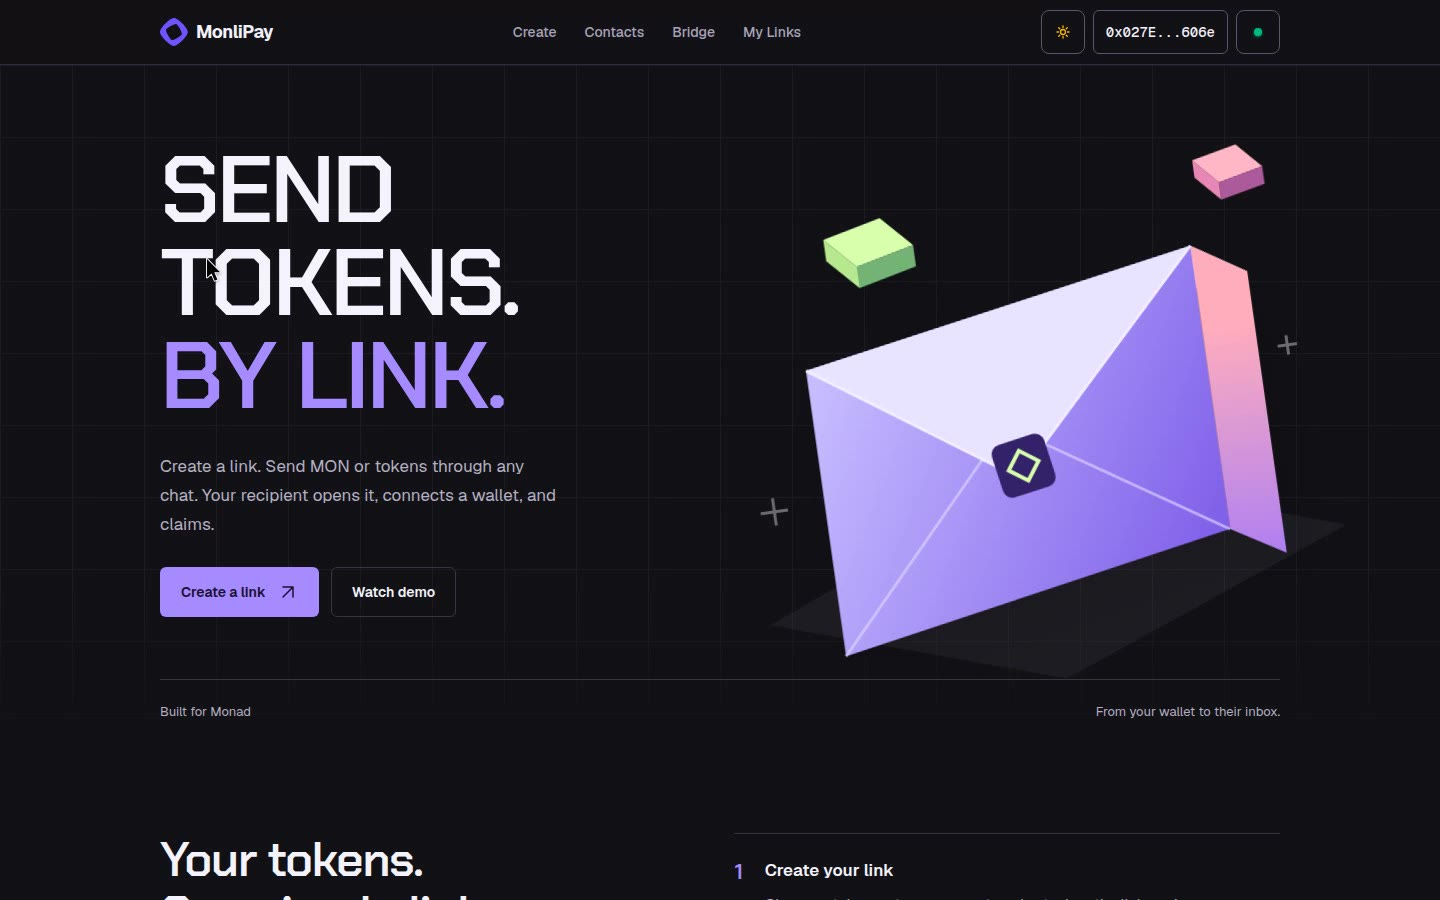
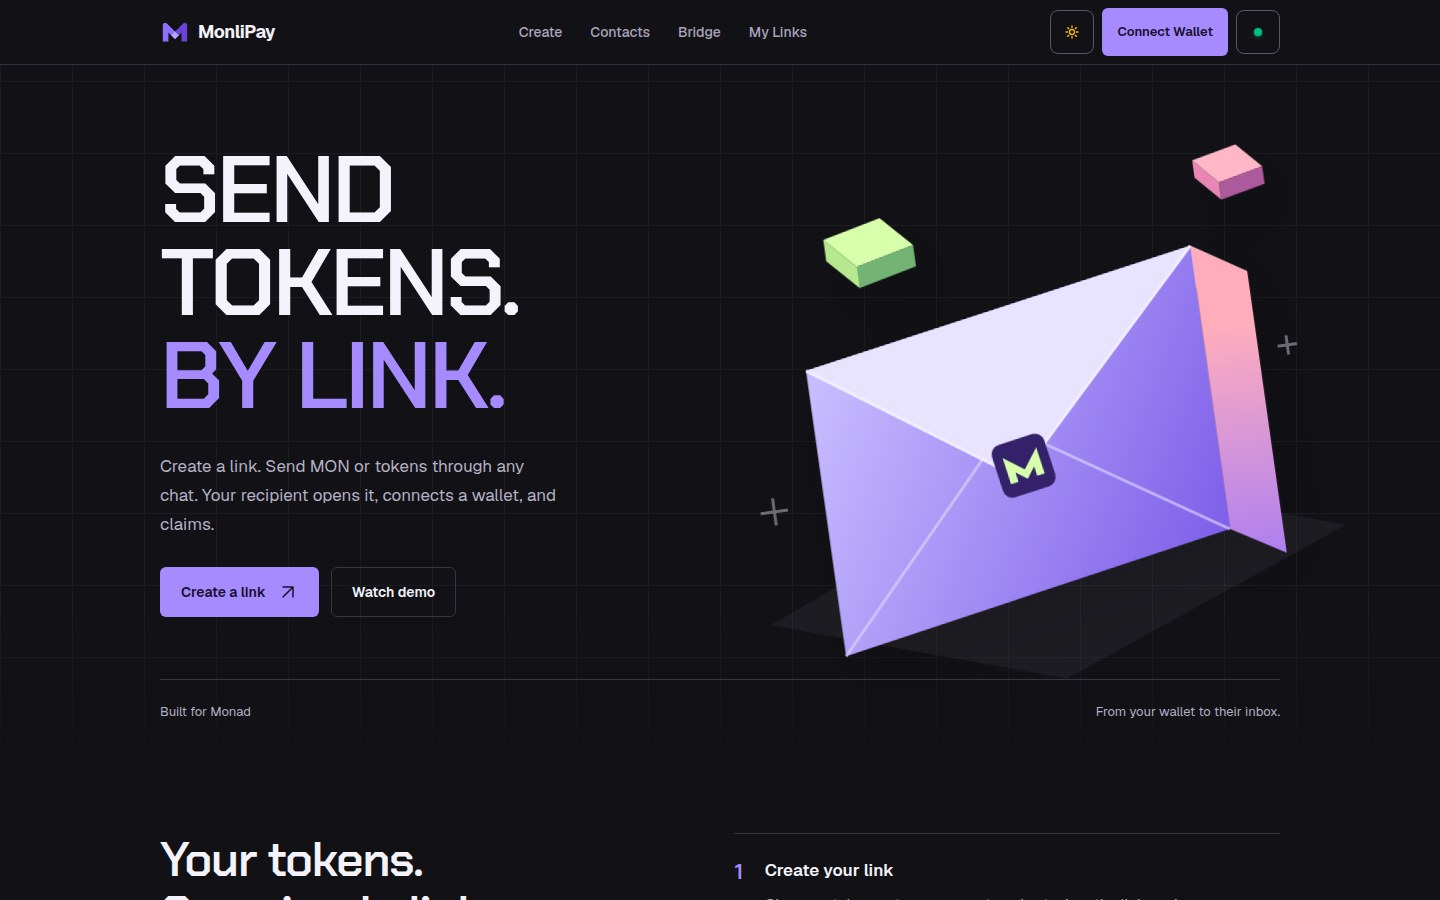
Add MonliPay identity and refine private access copy and spacing

diff --git a/web/src/components/DemoVideo.tsx b/web/src/components/DemoVideo.tsx
@@ -11,7 +11,7 @@ export function DemoVideo() {
         controls
         playsInline
         preload="none"
-        poster="/demo/monlipay-poster.jpg"
+        poster="/demo/monlipay-poster.jpg?v=monlipay-mark"
         width="1440"
         height="900"
         aria-label="MonliPay product demo with English captions"
@@ -26,13 +26,7 @@ export function DemoVideo() {
         Your browser does not support embedded video.{" "}
         <a href="/demo/monlipay-demo.mp4">Download the demo</a>.
       </video>
-      <div className="mp-demo-notes">
-        <p>
-          Payment and Lucky Link transactions were recorded on Monad testnet
-          with automated wallet confirmations. Demo USD has no monetary value.
-          The closing privacy walkthrough shows the interface; its funded
-          mainnet pilot was verified separately.
-        </p>
+      <div className="mp-demo-actions">
         <a className="mp-text-link" href="/demo/monlipay-demo.mp4" download>
           Download video
         </a>
@@ -41,8 +35,7 @@ export function DemoVideo() {
         <summary>Read the walkthrough</summary>
         <ol>
           <li>
-            Create a payment link: choose a token, amount, and expiry. The demo
-            uses a six-decimal test token.
+            Create a payment link: choose a token, amount, and expiry.
           </li>
           <li>
             Fund the link in your wallet, then copy it into a private chat.
@@ -61,14 +54,12 @@ export function DemoVideo() {
             share after it settles. Draw fees and network gas are paid in MON.
           </li>
           <li>
-            My Links brings both link types together. Expired, unallocated funds
+            Find your links in My Links. Expired, unallocated funds
             can be refunded with wallet confirmation.
           </li>
           <li>
-            Open encrypted saved links with a passkey. Optional Private Payment
-            uses AnomaPay on mainnet. Its WMON pilot passed deposit, private
-            transfer, claim and sender recovery. Deposits and withdrawals remain
-            public, and the proving service can see transfer details.
+            Open saved links with your passkey. To send a private payment,
+            choose Private when creating a link on Monad mainnet.
           </li>
         </ol>
       </details>

diff --git a/web/src/components/ClaimForm.tsx b/web/src/components/ClaimForm.tsx
@@ -143,7 +143,7 @@ export function ClaimForm({
             />
           </svg>
           <span>
-            <strong>Gasless claim</strong> — gas fee sponsored by MonliPay.
+            <strong>Gasless claim.</strong> Gas fee sponsored by MonliPay.
           </span>
         </div>
       )}
@@ -185,7 +185,7 @@ export function ClaimForm({
 
       <p className="mp-hint text-center">
         {isGasSponsorAvailable
-          ? "No MON needed — the sponsor covers the gas fee."
+          ? "No MON needed. The sponsor covers the gas fee."
           : "Claiming requires a small gas fee in MON for the transaction."}
       </p>
 
@@ -235,7 +235,7 @@ export function ClaimForm({
             <p className="mt-2 text-sm text-stone-600 dark:text-stone-400">
               You are about to claim these funds to a wallet that is not the one
               you are currently connected with. Please verify the address
-              carefully — funds sent to the wrong address cannot be recovered.
+              carefully. Funds sent to the wrong address cannot be recovered.
             </p>
             <div className="mt-4 rounded-lg border border-stone-200 bg-stone-50 p-3 dark:border-stone-700 dark:bg-stone-800">
               <div className="text-xs uppercase tracking-wide text-stone-500">

diff --git a/web/src/components/LinkCard.tsx b/web/src/components/LinkCard.tsx
@@ -43,7 +43,7 @@ export function LinkCard({
   const status: { label: string; color: string } = isClaimed
     ? { label: "Claimed", color: "bg-stone-100 text-stone-600 dark:bg-stone-800 dark:text-stone-400" }
     : isExpired
-      ? { label: "Expired — refundable", color: "bg-amber-100 text-amber-700 dark:bg-amber-950/40 dark:text-amber-300" }
+      ? { label: "Expired, refundable", color: "bg-amber-100 text-amber-700 dark:bg-amber-950/40 dark:text-amber-300" }
       : { label: "Active", color: "bg-green-100 text-green-700 dark:bg-green-950/40 dark:text-green-300" };
 
   const canShare = !isClaimed && shareableUrl;
@@ -89,7 +89,7 @@ export function LinkCard({
           </div>
           {autoRefundFailed && (
             <p className="mt-2 text-xs font-medium text-amber-700 dark:text-amber-300">
-              ⚠ Auto-refund skipped for this link — try a manual refund below.
+              Auto-refund skipped for this link. Try a manual refund below.
             </p>
           )}
 

diff --git a/web/src/app/lucky.css b/web/src/app/lucky.css
@@ -1485,21 +1485,10 @@ select.mp-input {
   border: 1px solid var(--mp-line);
   border-radius: var(--mp-radius);
 }
-.mp-demo-notes {
+.mp-demo-actions {
   display: flex;
-  align-items: start;
-  justify-content: space-between;
-  gap: 24px;
+  justify-content: flex-end;
   margin-top: 16px;
-}
-.mp-demo-notes p {
-  color: var(--mp-muted);
-  font-size: 0.8125rem;
-  max-width: 68ch;
-  line-height: 1.65;
-}
-.mp-demo-notes a {
-  flex-shrink: 0;
 }
 .mp-demo-transcript {
   margin-top: 20px;
@@ -1537,13 +1526,17 @@ select.mp-input {
     grid-template-columns: 1fr;
     gap: 16px;
   }
-  .mp-demo-notes {
-    flex-direction: column;
-    gap: 8px;
-  }
 }
 
 /* Private payments extend the existing payment workspace. */
+.mp-private-access {
+  padding: 28px;
+}
+@media (max-width: 640px) {
+  .mp-private-access {
+    padding: 20px;
+  }
+}
 .mp-link-types:has(a:nth-child(3)) {
   grid-template-columns: repeat(3, minmax(0, 1fr));
   max-width: 840px;

diff --git a/web/src/components/ShareLink.tsx b/web/src/components/ShareLink.tsx
@@ -323,7 +323,7 @@ export function ShareLink({ url, txHash, onReset, backup }: ShareLinkProps) {
             </svg>
             <div className="space-y-1">
               <p className="text-sm font-semibold text-amber-900 dark:text-amber-100">
-                Save this link now — it won't be shown again.
+                Save this link now. It won't be shown again.
               </p>
               <p className="text-xs text-amber-800 dark:text-amber-200">
                 The secret key inside the URL fragment is generated in your
@@ -344,7 +344,7 @@ export function ShareLink({ url, txHash, onReset, backup }: ShareLinkProps) {
               buttons in the QR tab.
             </li>
             <li>
-              Anyone with this link can claim the funds — share it only with the
+              Anyone with this link can claim the funds. Share it only with the
               intended recipient.
             </li>
           </ul>

diff --git a/web/src/components/NavBar.tsx b/web/src/components/NavBar.tsx
@@ -5,7 +5,7 @@ import Link from "next/link";
 import { usePathname } from "next/navigation";
 import { ConnectButton } from "./ConnectButton";
 import { ThemeToggle } from "./ThemeToggle";
-import { MonadLogo } from "./MonadLogo";
+import { MonliPayLogo } from "./MonliPayLogo";
 import { NetworkSwitcherModal } from "./NetworkSwitcherModal";
 import { isMainnet } from "@/config/chain";
 
@@ -50,7 +50,7 @@ export function NavBar() {
         <div className="mx-auto flex h-16 max-w-6xl items-center justify-between gap-2 px-4">
           {/* Left: Logo */}
           <Link href="/" className="flex min-h-11 items-center gap-2 shrink-0">
-            <MonadLogo variant="mark" size={28} priority />
+            <MonliPayLogo size={30} />
             <span className="text-lg font-bold tracking-tight">
               <span className="logo-mark">Monli</span>
               <span className="text-stone-900 dark:text-stone-100">Pay</span>

diff --git a/web/src/components/PrivatePaymentWorkspace.tsx b/web/src/components/PrivatePaymentWorkspace.tsx
@@ -101,7 +101,7 @@ export function PrivatePaymentWorkspace() {
           )}
         </section>
       ) : !ready ? (
-        <section className="mp-panel">
+        <section className="mp-panel mp-private-access">
           <h2>Protect your private payments</h2>
           <p className="mp-hint">
             Your passkey opens your encrypted payment records. Set it up before
@@ -571,7 +571,7 @@ function PrivateSession() {
                   className="mp-private-funding"
                   onSubmit={(e) => {
                     e.preventDefault();
-                    void perform("Adding funds — check your wallet…", () =>
+                    void perform("Adding funds. Check your wallet…", () =>
                       fund(),
                     );
                   }}

diff --git a/web/src/app/page.tsx b/web/src/app/page.tsx
@@ -3,6 +3,7 @@ import { ArrowIcon } from "@/components/ArrowIcon";
 import { LuckyArtwork } from "@/components/LuckyArtwork";
 import { DemoVideo } from "@/components/DemoVideo";
 import { HeroMotion } from "@/components/HeroMotion";
+import { MonliPayLogo } from "@/components/MonliPayLogo";
 
 export default function HomePage() {
   return (
@@ -139,7 +140,7 @@ export default function HomePage() {
         </p>
       </section>
       <footer className="mp-home-footer">
-        <Link href="/">MonliPay</Link>
+        <Link href="/" className="gap-2"><MonliPayLogo size={24} />MonliPay</Link>
         <span>Tokens to go. Just share the link.</span>
         <Link href="/privacy">Privacy</Link>
         <Link href="/bridge">

diff --git a/web/src/components/__tests__/LinkCard.test.tsx b/web/src/components/__tests__/LinkCard.test.tsx
@@ -90,9 +90,9 @@ describe("LinkCard", () => {
     expect(screen.getByText("Claimed")).toBeInTheDocument();
   });
 
-  it("should show 'Expired — refundable' status for expired unclaimed links", () => {
+  it("should show 'Expired, refundable' status for expired unclaimed links", () => {
     renderLinkCard({ isExpired: true, isClaimed: false });
-    expect(screen.getByText("Expired — refundable")).toBeInTheDocument();
+    expect(screen.getByText("Expired, refundable")).toBeInTheDocument();
   });
 
   it("should not show refund button when canRefund is false", () => {

diff --git a/web/src/components/LuckyArtwork.tsx b/web/src/components/LuckyArtwork.tsx
@@ -58,7 +58,7 @@ export function LuckyArtwork({ open = false }: { open?: boolean }) {
         />
         <g transform="translate(154 145) rotate(-10)">
           <rect width="28" height="28" rx="5" fill="#332169" />
-          <path d="m14 6 8 8-8 8-8-8Z" stroke="#d8ffac" strokeWidth="2" />
+          <path d="M5 21V7l9 9 9-9v14h-4v-5l-5 5-5-5v5H5Z" fill="#d8ffac" />
         </g>
       </g>
       <g className="lucky-art-share">

diff --git a/web/src/app/demo/page.tsx b/web/src/app/demo/page.tsx
@@ -4,7 +4,7 @@ import { DemoVideo } from "@/components/DemoVideo";
 import { ArrowIcon } from "@/components/ArrowIcon";
 
 export const metadata: Metadata = {
-  title: "Watch the demo — MonliPay",
+  title: "Watch the demo | MonliPay",
   description:
     "Watch MonliPay create and claim a token payment link on Monad testnet, with Lucky Links for selected groups.",
 };

diff --git a/web/src/app/create/lucky/page.tsx b/web/src/app/create/lucky/page.tsx
@@ -353,7 +353,7 @@ export default function LuckyPage() {
               </div>
               <div>
                 <dt>Recipient slots</dt>
-                <dd>{Number.isFinite(slots) ? slots : "—"}</dd>
+                <dd>{Number.isFinite(slots) ? slots : "Not set"}</dd>
               </div>
               <div>
                 <dt>Distribution</dt>
